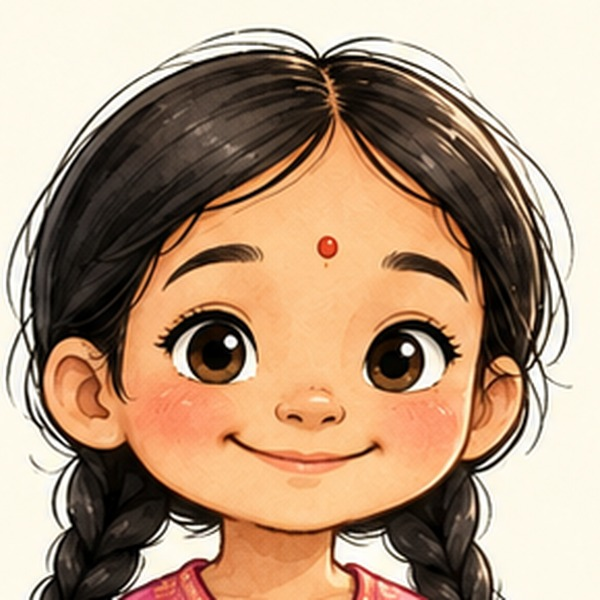
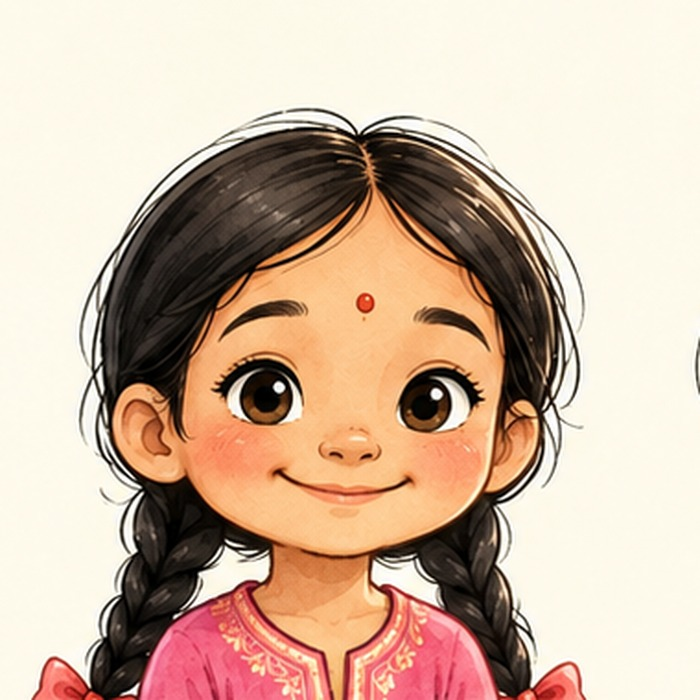
Wiki: sharper Maya portrait + fix portrait zoom-crop layout

diff --git a/wiki.html b/wiki.html
@@ -30,8 +30,8 @@ a{text-decoration:none}
 .marigold{display:flex;justify-content:center;gap:6px;margin:0 0 8px}
 .marigold svg{width:26px;height:26px}
 .char{background:var(--card);border-radius:20px;box-shadow:var(--shadow);margin:26px 0;overflow:hidden;display:grid;grid-template-columns:300px 1fr}
-.char .pic{background:var(--cream2);min-height:300px}
-.char .pic img{width:100%;height:100%;object-fit:cover}
+.char .pic{background:var(--cream2);display:flex;align-items:center;justify-content:center;padding:28px}
+.char .pic img{width:100%;max-width:320px;aspect-ratio:1/1;object-fit:cover;border-radius:18px}
 .char .body{padding:26px 28px}
 .char h2{margin:0 0 2px;font-size:30px}
 .role{display:inline-block;background:var(--cream2);color:var(--maroon);border:1px solid rgba(200,150,60,.5);font-size:13px;font-weight:700;border-radius:999px;padding:4px 14px;margin:6px 0 14px}
@@ -58,7 +58,7 @@ footer{padding:34px 0 44px;text-align:center;color:var(--ink-soft);font-size:14p
 footer b{color:var(--maroon);font-family:"Baloo 2",Georgia,serif}
 footer a{color:var(--maroon);font-weight:600}
 footer a:hover{text-decoration:underline}
-@media(max-width:700px){.char{grid-template-columns:1fr}.char .pic{min-height:0}.infobox .k{width:120px}.hero h1{font-size:28px}}
+@media(max-width:700px){.char{grid-template-columns:1fr}.infobox .k{width:120px}.hero h1{font-size:28px}}
 </style></head><body>
 <div class="topbar"><div class="wrap">
 <div class="brand"><span class="brand-mark">M</span>Maya&rsquo;s Storybooks</div>
